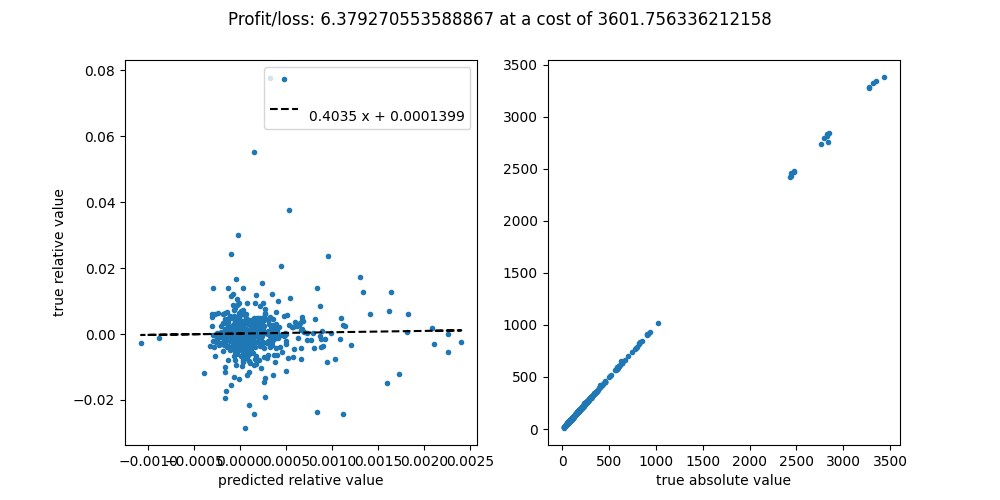
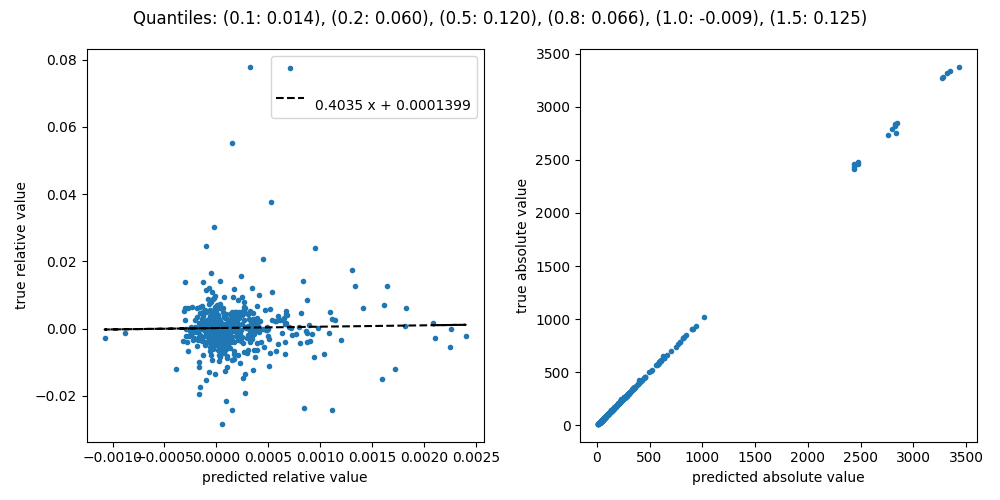
Add quantile calculations

diff --git a/python/runs/R2/evaluation.py b/python/runs/R2/evaluation.py
@@ -1,4 +1,6 @@
+import enum
 from numpy.core.fromnumeric import size
+from tensorflow.python.keras.backend import dtype
 from toolbox import logger, load_testing_data, mkdir
 import numpy as np
 import tensorflow as tf
@@ -40,7 +42,7 @@ model_filename = f"model_{run_name}_{collector}_period{period}_inteval{interval}
 model_filepath = f"{model_folder_name}/{model_filename}"
 
 # Construct results file path
-results_filename = f"results_{run_name}_{collector}_period{period}_inteval{interval}_start{start}_end{stop}_datalength{data_length}_batchsize{batch_size}.png"
+results_filename = f"results_{run_name}_{collector}_period{period}_inteval{interval}_start{start}_end{stop}_datalength{data_length}_batchsize{batch_size}"
 results_filepath = f"{results_folder_name}/{results_filename}"
 
 # Load the model
@@ -55,9 +57,9 @@ N = len(testing_labels)
 predicted_values = np.zeros(N)
 true_values = np.zeros(N)
 
-# List for profit/loss if sample_prediction > 0
-cost = []
-profit_loss = []
+cost_absolute = np.zeros(N)
+true_profit_loss_absolute = np.zeros(N)
+true_margin_relative = np.zeros(N)
 
 for i in range(N):
     sample_data = testing_data[i, :]
@@ -79,9 +81,36 @@ for i in range(N):
     predicted_values[i] = sample_predicted_absolute
     true_values[i] = sample_true_absolute
 
-    if sample_prediction > 0.001:
-        cost.append(sample_last_data_value)
-        profit_loss.append(sample_true_absolute - sample_last_data_value)
+    cost_absolute[i] = sample_last_data_value
+    true_profit_loss_absolute[i] = sample_true_absolute - sample_last_data_value
+    true_margin_relative[i] = (sample_true_absolute - sample_last_data_value) / sample_last_data_value
+
+
+# Get the percentage quantiles for predictions, and sum them up
+def get_percentage_quantile_sums(percentage):
+    idx_that_predicts_profit = predictions > 0
+    amount_that_predicts_profit = sum(idx_that_predicts_profit)
+
+    idx_and_predictions = np.array([np.array([idx, prediction]) for idx, prediction in enumerate(predictions)])
+    sorted_idx_and_predictions = idx_and_predictions[idx_and_predictions[:, 1].argsort()] # sort by predictions, keeping index beside it
+    idx_for_predictions_above_quantile = -round(percentage * amount_that_predicts_profit)
+
+    if (idx_for_predictions_above_quantile < -N):
+        raise ValueError(f"get_percentage_quantile_sums({percentage}): Index ({-idx_for_predictions_above_quantile}) exceeds the bound ({-N})")
+
+    predictions_above_quantile = sorted_idx_and_predictions[(idx_for_predictions_above_quantile):, :]
+    true_values_above_quantile = testing_labels[predictions_above_quantile[:, 0].astype(int)] # Extract what the true values will be
+
+    # Return the sum of the predictions above the given quantile
+    return sum(true_values_above_quantile) 
+
+quantiles = [0.1, 0.2, 0.5, 0.8, 1.0, 1.5, 2.0]
+quantile_sums = []
+for quantile in quantiles:
+    try:
+        quantile_sums.append((quantile, get_percentage_quantile_sums(quantile)))
+    except ValueError as e:
+        logger.DEBUG(e)
 
 fig, axs = plt.subplots(1, 2, figsize=(10, 5))
 axs[0].plot(predictions, testing_labels, '.')
@@ -95,12 +124,12 @@ axs[0].legend([None, poly1d_fn])
 
 axs[1].plot(predicted_values, true_values, '.')
 axs[1].set_xlabel('predicted absolute value')
-axs[1].set_xlabel('true absolute value')
+axs[1].set_ylabel('true absolute value')
 
-fig.suptitle(f'Profit/loss: {sum(profit_loss)} at a cost of {sum(cost)}')
-#print(profit_loss)
+fig.suptitle(f'Quantiles: {", ".join([f"({q[0]}: {q[1]:.3f})" for q in quantile_sums])}')
+fig.tight_layout()
 
-fig.savefig(results_filepath)
+fig.savefig(f'{results_filepath}.png')
 
 # print("testing labels: ", testing_labels)
 # print("predictions: ", predictions)
